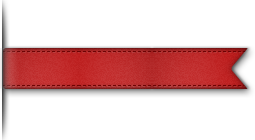
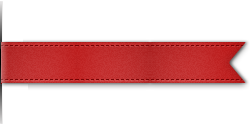
New ribbon and style

Changed region(s): [[0.0, 0.0, 1.0, 1.0]]

diff --git a/static/css/site.css b/static/css/site.css
@@ -33,7 +33,7 @@ footer i { margin-right: 1em; }
 /* Jumbotron *******/
 
 header {
-   background: url(../img/paper-dark.jpg) #eee;
+   background: url(../img/paper-lrg.jpg) #eee;
    color: black;
    padding-top: 50px;
    text-align: center;
@@ -70,9 +70,9 @@ header .bubble p + p {
    color: white;
    font-size: 1.5em;
    font-weight: lighter;
-   height: 91px;
+   height: 82px;
    margin-left: -10px;
-   padding: 49px 0 0 20px;
+   padding: 43px 0 0 10px;
    text-shadow: #600 -1px -2px 1px;
 }
 
